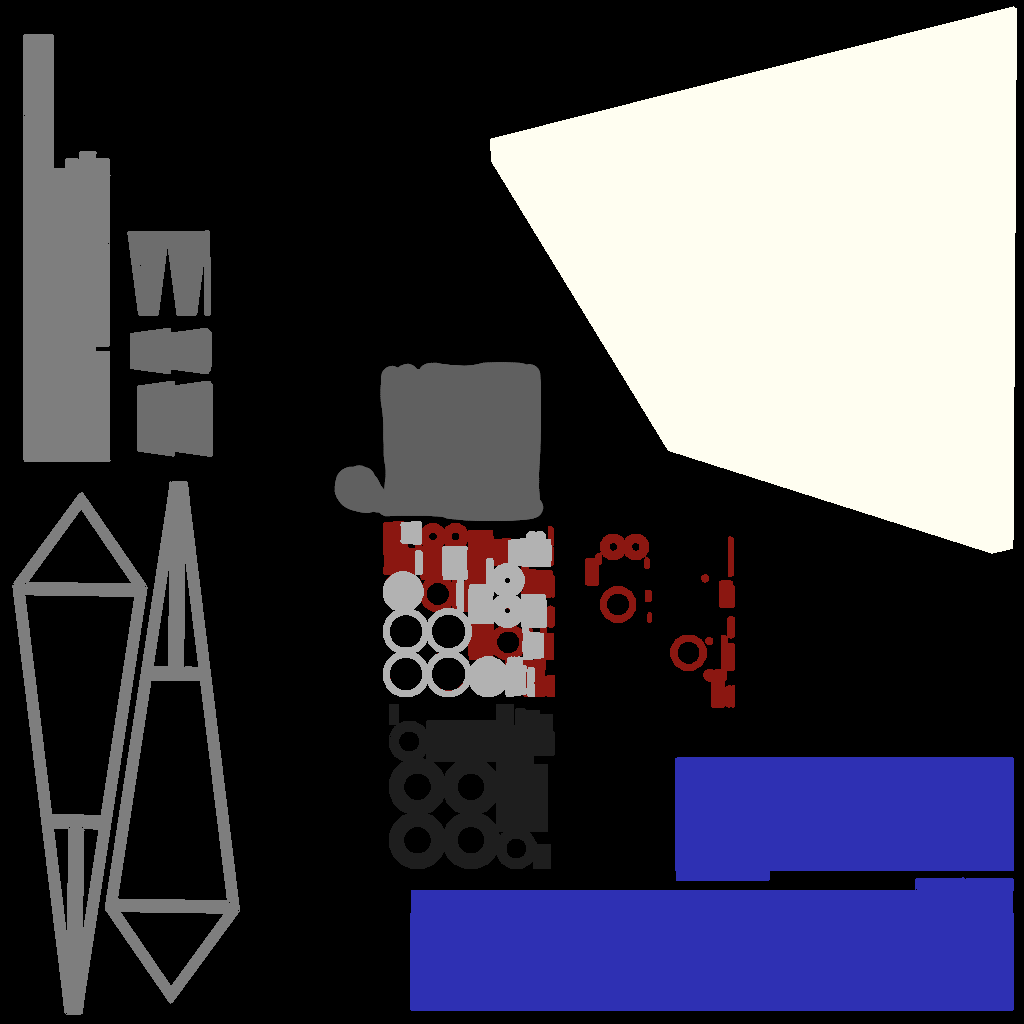
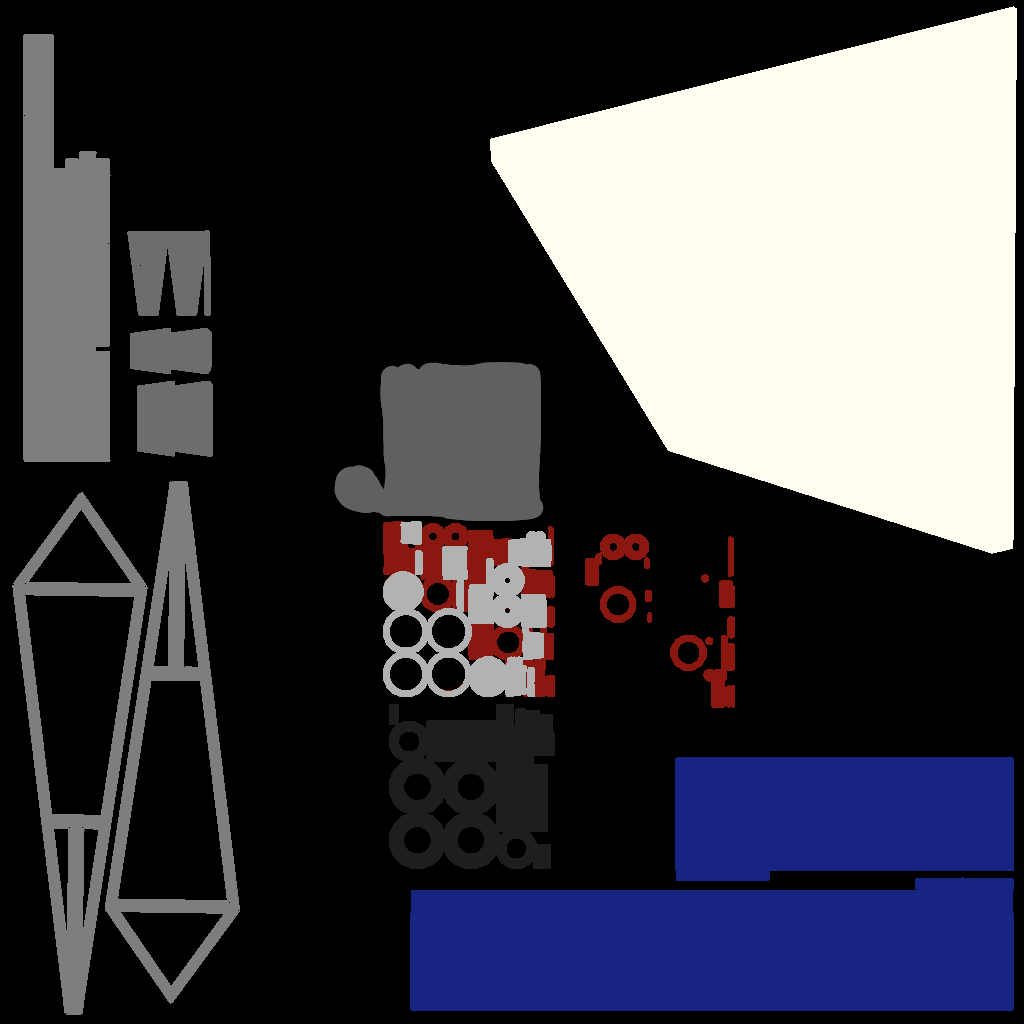
Wheel angle now in physics. Cam follows controlled yacht

Changed region(s): [[0.375, 0.7188, 1.0, 1.0]]

diff --git a/src/animation/animation.cpp b/src/animation/animation.cpp
@@ -6,8 +6,6 @@
 
 #include <glm/gtc/matrix_transform.hpp>
 
-float wheelAngle;
-
 void Animation::updateBones(Scene &scene)
 {
     for (auto ModelData : scene.structModels)
@@ -25,16 +23,14 @@ void Animation::generateYachtBones(ModelData &ModelData)
     Model *model = ModelData.model;
     Physics *physics = ModelData.physics[0];
 
-    wheelAngle += physics->forwardVelocity * EventHandler::deltaTime * 100;
-
     // Body Transform
     model->boneHierarchy["Armature_Body"]->transform = physics->baseTransform;
 
     // Wheel transforms
     model->boneHierarchy["Armature_Fork"]->transform = glm::rotate(glm::mat4(1.0f), glm::radians(physics->steeringAngle * 2), glm::vec3(0.0f, -1.0f, 0.0f));
-    model->boneHierarchy["Armature_Wheel_Front"]->transform = glm::rotate(glm::mat4(1.0f), glm::radians(wheelAngle), glm::vec3(0.0f, 1.0f, 0.0f));
-    model->boneHierarchy["Armature_Wheel_Left"]->transform = glm::rotate(glm::mat4(1.0f), glm::radians(wheelAngle), glm::vec3(0.0f, 1.0f, 0.0f));
-    model->boneHierarchy["Armature_Wheel_Right"]->transform = glm::rotate(glm::mat4(1.0f), glm::radians(-wheelAngle), glm::vec3(0.0f, 1.0f, 0.0f));
+    model->boneHierarchy["Armature_Wheel_Front"]->transform = glm::rotate(glm::mat4(1.0f), glm::radians(physics->wheelAngle), glm::vec3(0.0f, 1.0f, 0.0f));
+    model->boneHierarchy["Armature_Wheel_Left"]->transform = glm::rotate(glm::mat4(1.0f), glm::radians(physics->wheelAngle), glm::vec3(0.0f, 1.0f, 0.0f));
+    model->boneHierarchy["Armature_Wheel_Right"]->transform = glm::rotate(glm::mat4(1.0f), glm::radians(-physics->wheelAngle), glm::vec3(0.0f, 1.0f, 0.0f));
 
     // Sail setup transform
     model->boneHierarchy["Armature_Mast"]->transform = glm::rotate(glm::mat4(1.0f), physics->MastAngle, glm::vec3(0.0f, -1.0f, 0.0f));

diff --git a/src/physics/physics.cpp b/src/physics/physics.cpp
@@ -179,6 +179,7 @@ void Physics::move()
     // Transform with velocities
     baseTransform *= glm::rotate(glm::mat4(1.0f), glm::radians(steeringAngle * forwardVelocity * EventHandler::deltaTime), glm::vec3(0.0f, 0.0f, -1.0f));
     baseTransform *= glm::translate(glm::mat4(1.0f), glm::vec3(0.0f, forwardVelocity * EventHandler::deltaTime, 0.0f));
+    wheelAngle = forwardVelocity * EventHandler::deltaTime * 100;
 
     // Send values to debug
     Render::debugData.push_back(std::pair("velocity", forwardVelocity));

diff --git a/src/physics/physics.h b/src/physics/physics.h
@@ -26,6 +26,7 @@ public:
     float steeringSmoothness;
     float maxSteeringAngle;
     float forwardVelocity = 0.0f;
+    float wheelAngle = 0.0f;
 
     float maxMastAngle;
     float maxBoomAngle;
